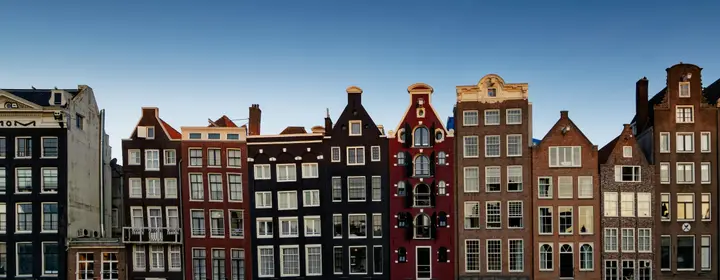
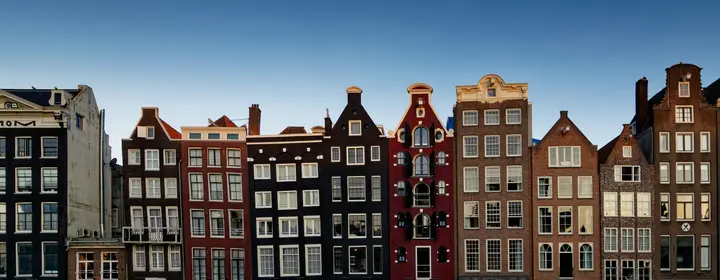
Leave the city on the chapter cells, faint, and walk Utrecht into the open
The band showed nothing until a cursor arrived. Now each photograph sits
behind its cell at 30% and hover or focus takes it to full under the navy
wash, so the three cities are part of the index rather than a reward for
pointing at it.

Both states are one device: the image is masked to fade in from the left, so
the name and the link sit on clean cream at rest and on flat navy on hover
whatever the crop holds. That also evens out three unequal photographs. A
flat wash put a tower against open sky beside a dense row of facades and the
cells stopped reading as peers.

Utrecht's tower stood far enough left in the full frame to sit inside the
fade. Its crop now drops the right quarter of the source, which walks the
tower out into the half of the cell nothing is written on. The windows moved
into `npm run images`, so all three crops are reproducible and the reason for
each one is written next to it.

diff --git a/src/app/globals.css b/src/app/globals.css
@@ -652,21 +652,31 @@
 .btn-accent:active, .btn-ink:active, .btn-ghost:active, .btn-ghost-inverse:active {
   transform: scale(0.98);
 }
-/* Local chapters. At rest the band is an index and nothing more: a name, a
-   hairline, and a way in. The photograph the chapter page opens with is parked
-   behind the cell and brought up on hover, so the city arrives as a picture
-   rather than as a line of copy listing what runs there.
+/* Local chapters. The photograph each chapter page opens with is behind its
+   cell at all times, faint enough that the band still reads as an index, and
+   hover or keyboard focus brings it up to full under a navy wash.
 
-   The name and the link flip to cream in the same beat. They have to: once the
-   navy wash is up, navy-on-navy is the one pairing on this page that cannot be
+   Both states are one device: the image is masked to fade in from the left,
+   so the name and the link sit on clean cream at rest and on flat navy on
+   hover, whatever the crop happens to hold. That also evens out three very
+   different photographs -- a tower against open sky next to a dense row of
+   facades -- which at a flat opacity made the three cells read as unequal.
+
+   The name and the link flip to cream with the wash. They have to: once the
+   navy is up, navy on navy is the one pairing on this page that cannot be
    read. Cream on navy/78 over a photograph clears AA at both sizes.
 
-   Gated on a fine pointer for the same reason the strip arrows are: a tap has
-   no hover to hand back, and a photo latched on after one would sit over the
-   name until the route changed. Focus-within is outside that query on purpose,
-   because a keyboard is not a fine pointer and the reveal is how a tabbing
-   reader sees which chapter they are on. */
+   The fade is gated on a fine pointer for the same reason the strip arrows
+   are: a tap has no hover to hand back. Focus-within sits outside that query
+   on purpose, because a keyboard is not a fine pointer and the reveal is how
+   a tabbing reader sees which chapter they are on. */
 .chapter-cell-photo {
+  opacity: 0.3;
+  mask-image: linear-gradient(to right, transparent 18%, #000 85%);
+  -webkit-mask-image: linear-gradient(to right, transparent 18%, #000 85%);
+  transition: opacity 0.3s cubic-bezier(0.16, 1, 0.3, 1);
+}
+.chapter-cell-scrim {
   opacity: 0;
   transition: opacity 0.3s cubic-bezier(0.16, 1, 0.3, 1);
 }
@@ -677,6 +687,7 @@
 }
 @media (hover: hover) and (pointer: fine) {
   .chapter-cell:hover .chapter-cell-photo { opacity: 1; }
+  .chapter-cell:hover .chapter-cell-scrim { opacity: 0.78; }
   .chapter-cell:hover h3 { color: var(--color-cream); }
   .chapter-cell:hover a {
     color: var(--color-cream);
@@ -685,6 +696,7 @@
   .chapter-cell:hover a:hover { text-decoration-color: var(--color-cream); }
 }
 .chapter-cell:focus-within .chapter-cell-photo { opacity: 1; }
+.chapter-cell:focus-within .chapter-cell-scrim { opacity: 0.78; }
 .chapter-cell:focus-within h3 { color: var(--color-cream); }
 .chapter-cell:focus-within a {
   color: var(--color-cream);
@@ -693,8 +705,9 @@
 
 @media (prefers-reduced-motion: reduce) {
   html { scroll-behavior: auto !important; }
-  /* The chapter photo still appears, it just stops fading in. */
+  /* The chapter photo still comes up, it just stops fading. */
   .chapter-cell-photo,
+  .chapter-cell-scrim,
   .chapter-cell h3,
   .chapter-cell a { transition: none; }
   .community-print:hover img,

diff --git a/src/app/page.tsx b/src/app/page.tsx
@@ -41,8 +41,8 @@ export const metadata: Metadata = {
    chapter is a continuation of the picture the hover already showed. These are
    720x280 crops of those heroes, not the heroes themselves: `output: "export"`
    ships images unoptimized, and the three full-size JPEGs come to 3.8MB for a
-   band that is 118px tall. Regenerate with sharp from `-hero.jpg` if a chapter
-   page changes its photograph. */
+   band this size. `npm run images` writes them; the crop window for each city
+   lives there, next to the reason it is what it is. */
 const chapters = [
   {
     city: "Utrecht",
@@ -181,19 +181,21 @@ export default function Home() {
                 key={chapter.city}
                 className="chapter-cell relative isolate border-l border-navy/14 py-5 pl-[18px] pr-4"
               >
-                {/* The city, held behind the cell and painted in on hover. The
-                    navy wash is what carries the name and the link over a
-                    photograph; without it the cell would be unreadable on the
-                    bright half of every image. */}
-                <span className="chapter-cell-photo pointer-events-none absolute inset-0 -z-10 overflow-hidden" aria-hidden="true">
+                {/* The city is always there, faint, and hover brings it up.
+                    It fades in from the left rather than covering the cell:
+                    the name and the link keep clean cream under them at rest
+                    and flat navy under them on hover, and the photograph gets
+                    the half of the cell that has nothing written on it. */}
+                <span className="pointer-events-none absolute inset-0 -z-10 overflow-hidden" aria-hidden="true">
                   <Image
                     src={chapter.photo}
                     alt=""
                     width={720}
                     height={280}
-                    className="h-full w-full object-cover"
+                    loading="eager"
+                    className="chapter-cell-photo h-full w-full object-cover"
                   />
-                  <span className="absolute inset-0 bg-navy/78" />
+                  <span className="chapter-cell-scrim absolute inset-0 bg-navy" />
                 </span>
                 <h3 className="font-serif text-title text-navy">{chapter.city}</h3>
                 <Link
